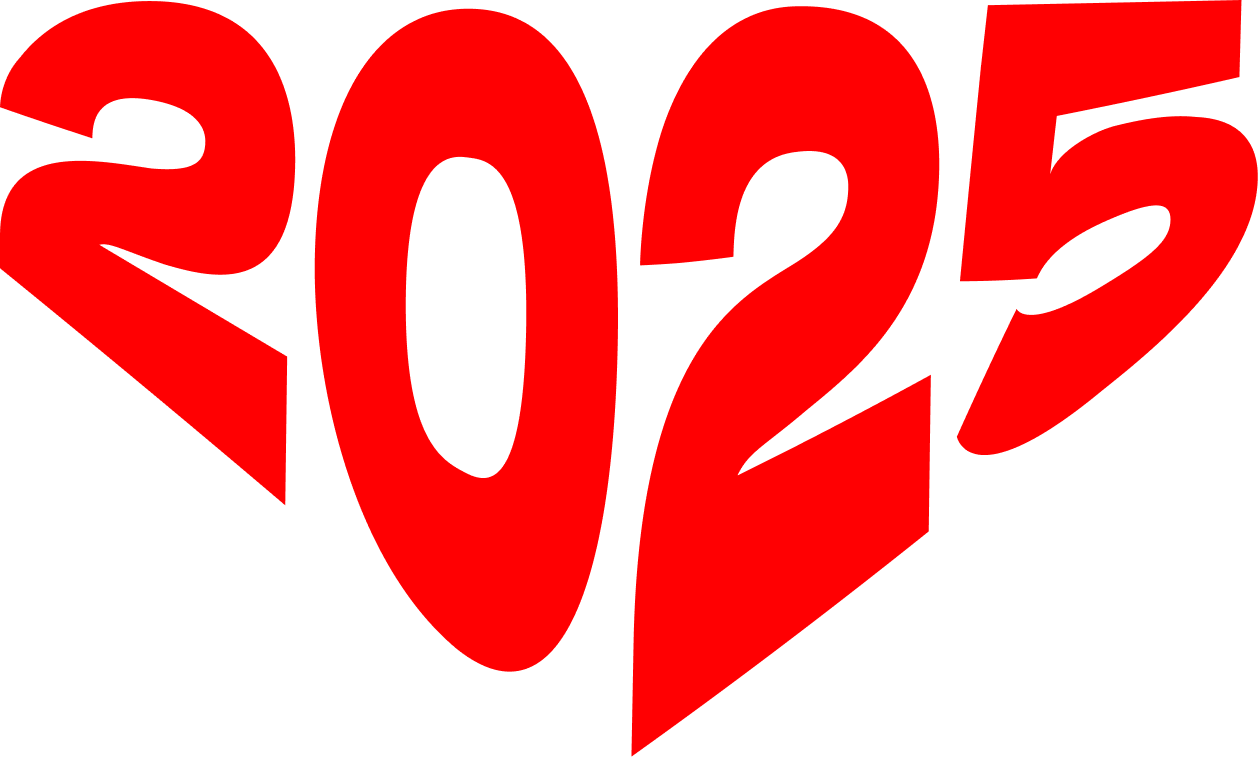
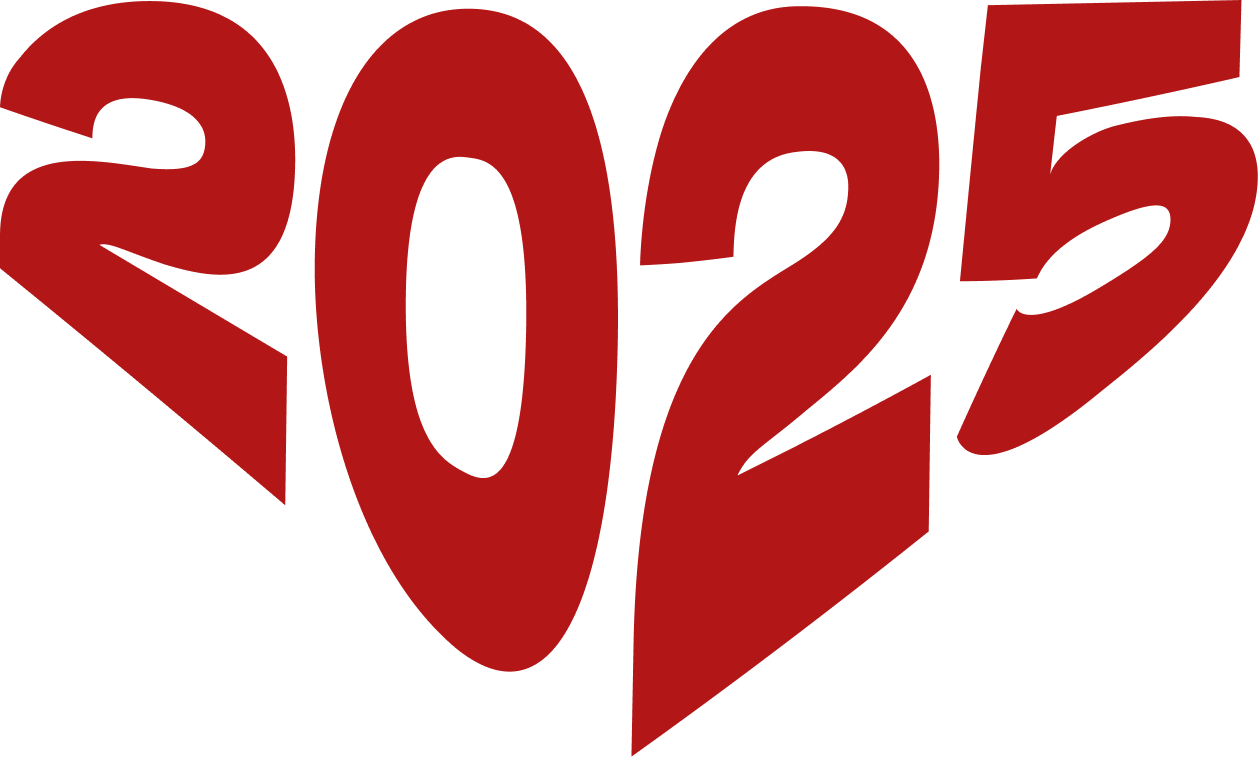
new color

diff --git a/src/components/Hero/Hero.jsx b/src/components/Hero/Hero.jsx
@@ -4,9 +4,9 @@ import heroimg from "../../assets/2025.png";
 
 const Hero = () => {
   return (
-    <div className="bg-accent text-primary min-h-screen flex flex-col items-center justify-center relative overflow-hidden">
+    <div className="bg-secondary text-primary min-h-screen flex flex-col items-center justify-center relative overflow-hidden">
       <img src={heroimg} alt="2025" className="w-[95vw] lg:w-[60vw] lg:mt-20"/>
-      <p className="font-hanson text-sm mt-10 text-center text-blood">
+      <p className="font-hanson text-sm mt-10 text-center">
         20’s Best Decade Ever
       </p>
     </div>

diff --git a/src/components/Navbar/Navbar.jsx b/src/components/Navbar/Navbar.jsx
@@ -3,7 +3,7 @@ import React from 'react';
 const Navbar = () => {
   return (
     <nav className="absolute top-0 left-0 w-full z-10 p-5"> 
-      <div className="flex justify-between items-center text-[11px] font-hanson uppercase leading-tight underline text-blood">
+      <div className="flex justify-between items-center text-[11px] font-hanson uppercase leading-tight underline text-primary">
         <div>
           SMA PLUS ABUDZAR<br/>00:00 WIB
         </div>

diff --git a/src/index.css b/src/index.css
@@ -9,11 +9,8 @@
 }
 
 @theme {
-  
-  --color-primary:#B21617; 
-  --color-secondary:#DADAD0; 
-  --color-accent:#141813; 
-  --color-blood:#FF0002;
+  --color-primary:#B21617;
+  --color-secondary:#DADAD0;
 
   --font-hanson: "Hanson", sans-serif;
 }
